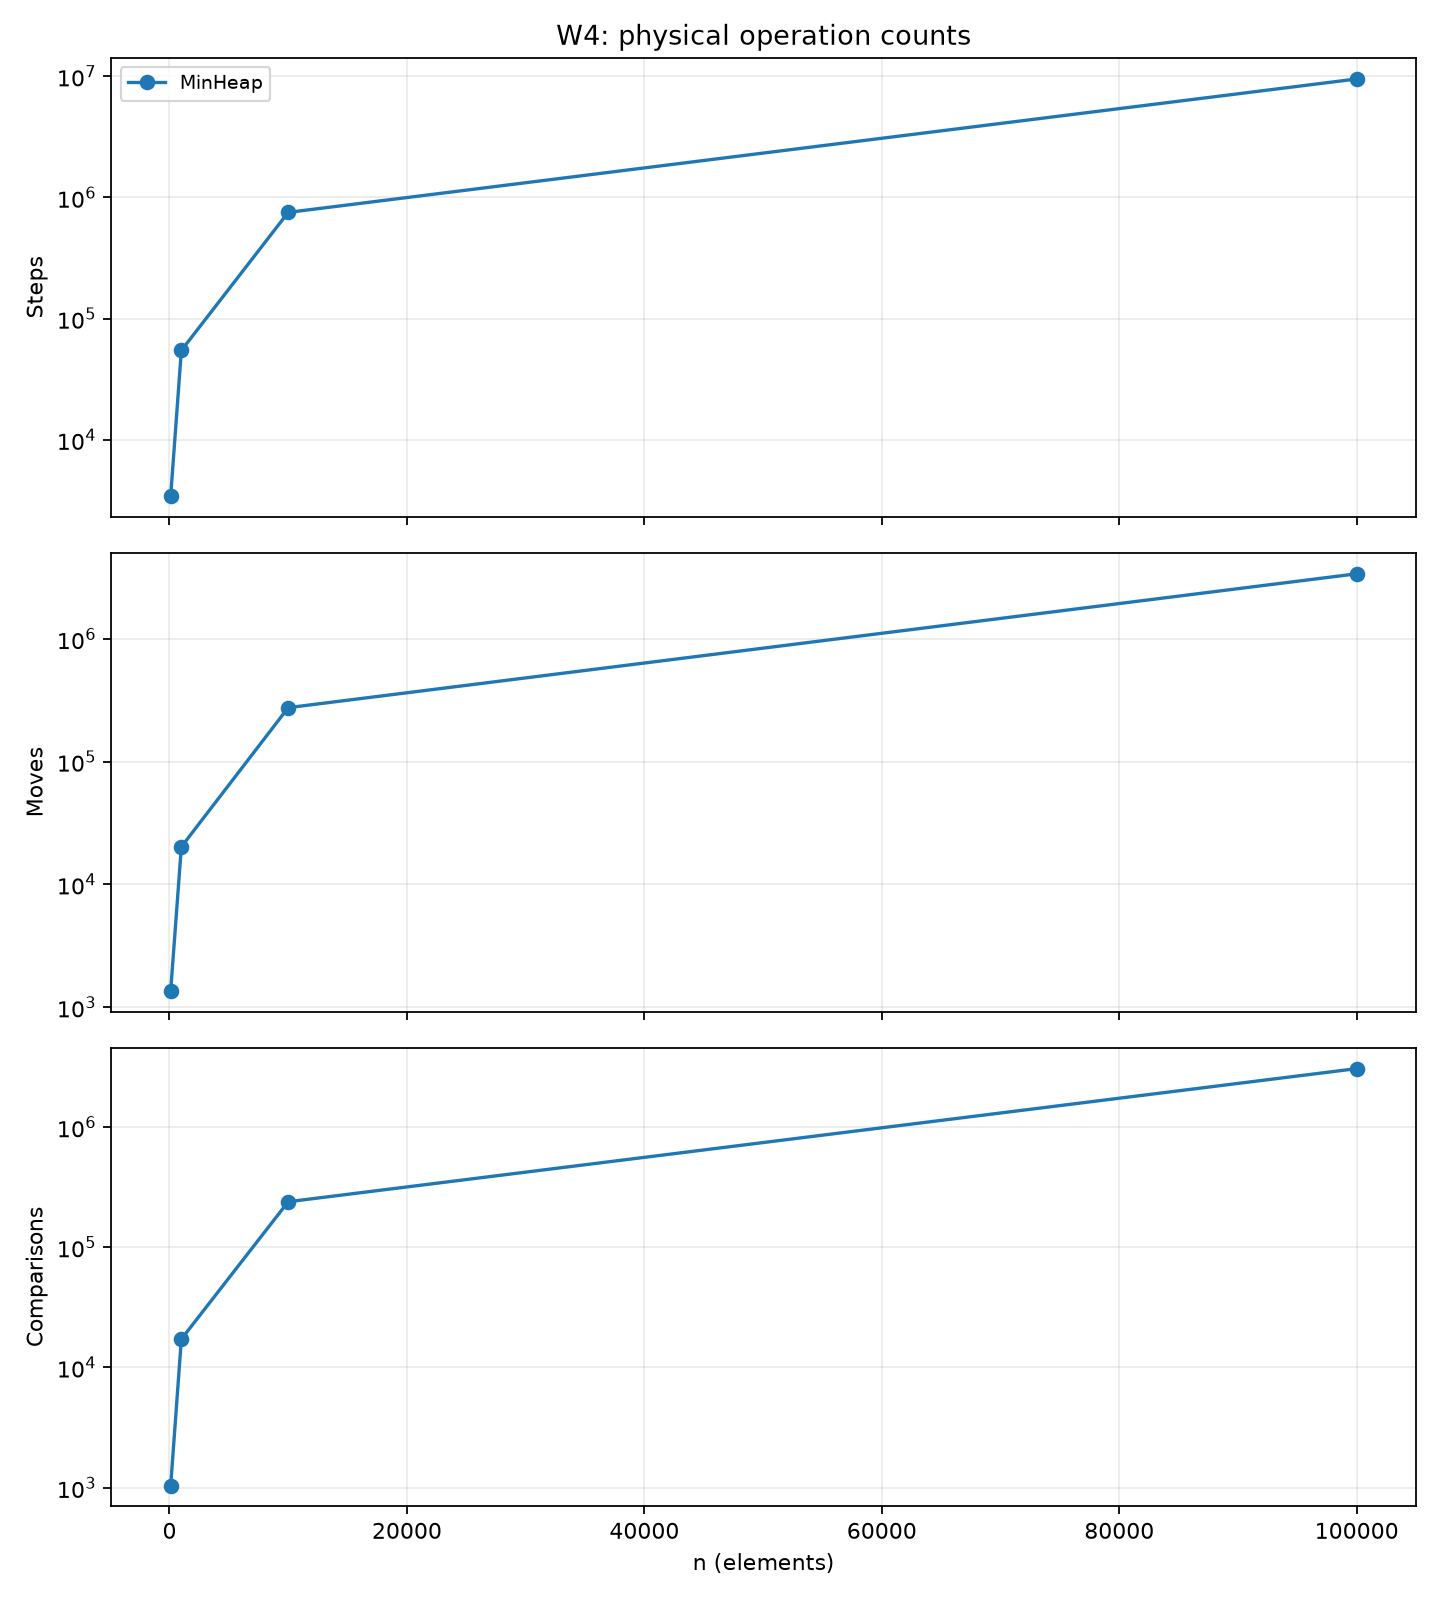
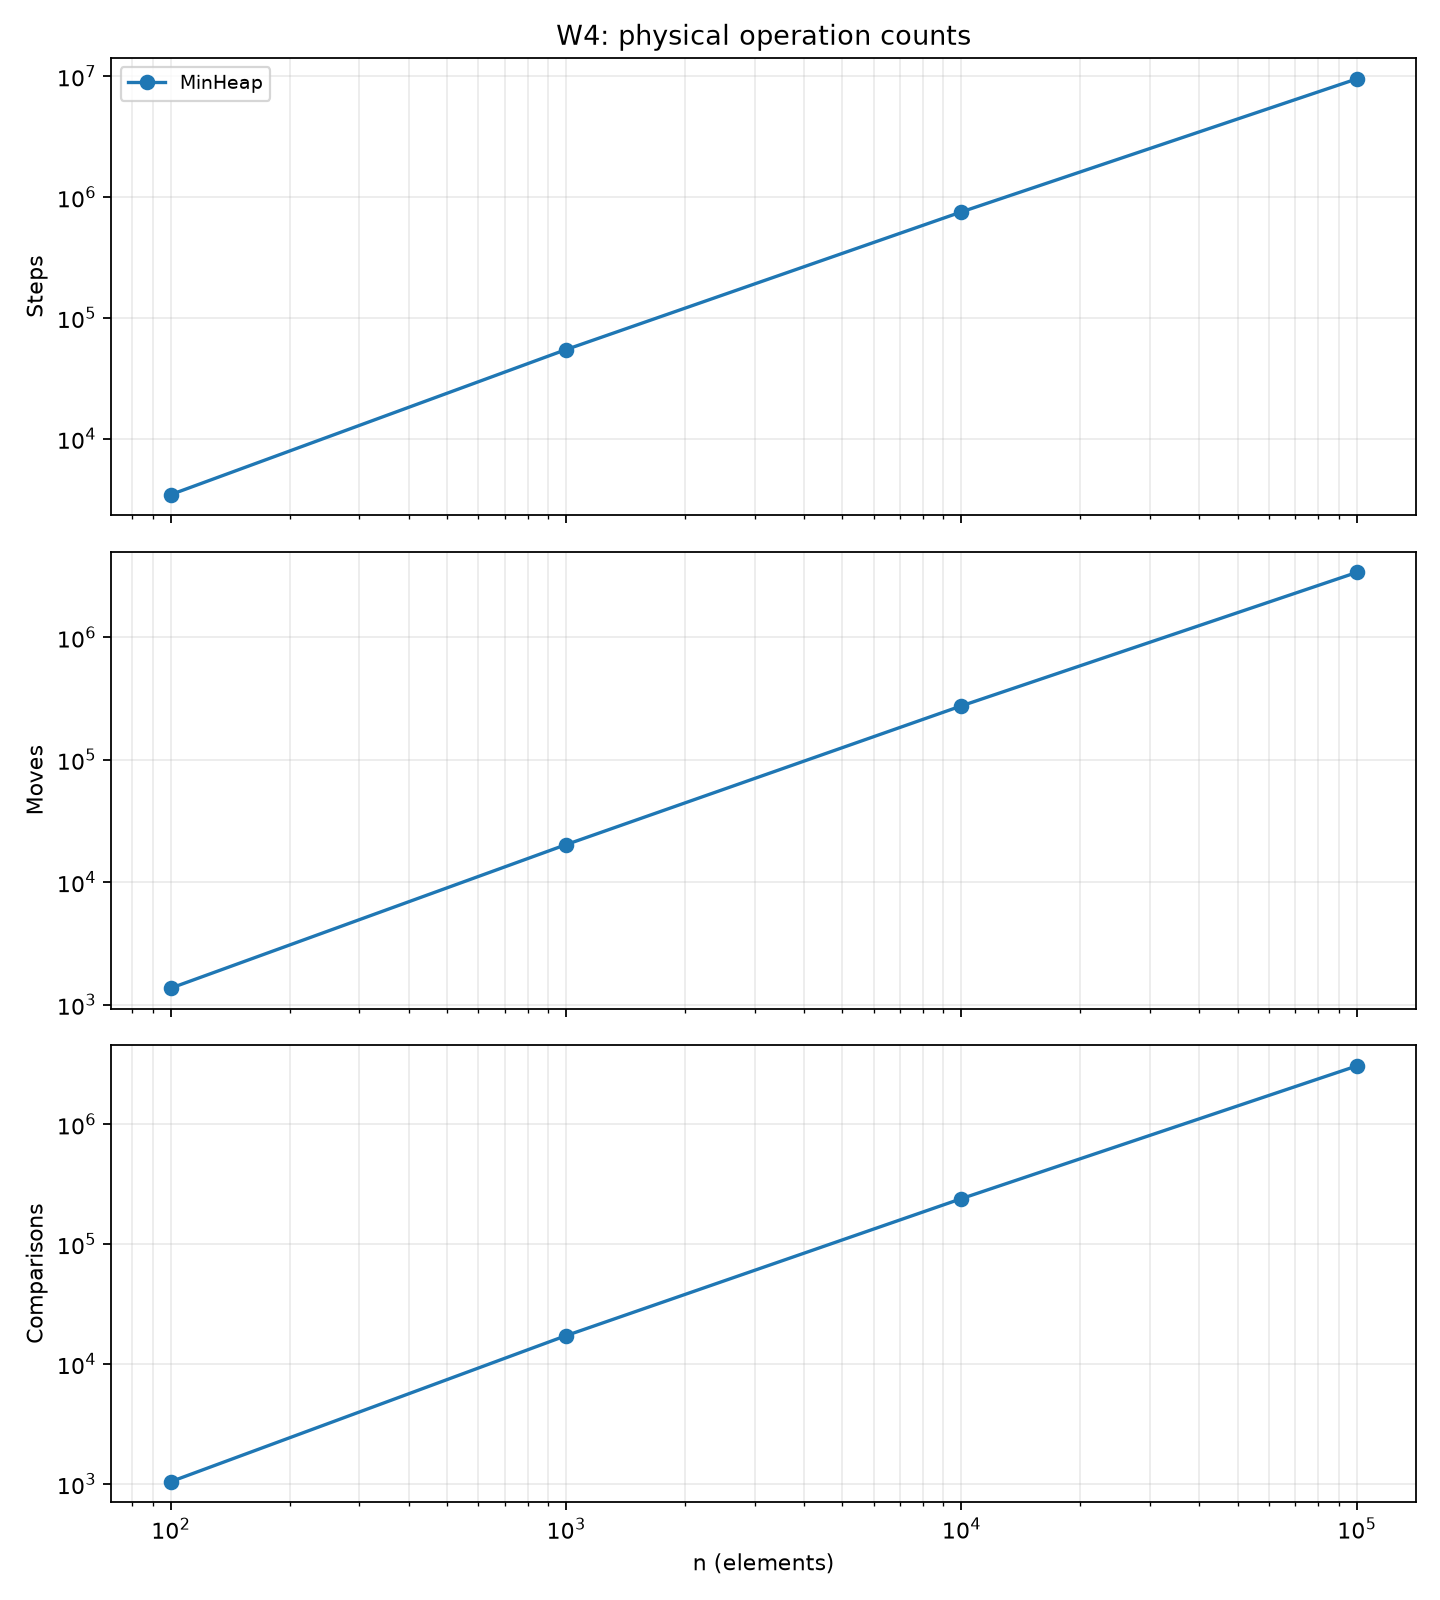
Charts

diff --git a/scripts/plot_results.py b/scripts/plot_results.py
@@ -8,6 +8,7 @@ from pathlib import Path
 import matplotlib
 matplotlib.use("Agg")
 import matplotlib.pyplot as plt
+from matplotlib.ticker import LogFormatterMathtext
 
 
 ROOT = Path(__file__).resolve().parents[1]
@@ -57,12 +58,25 @@ def draw():
 
         fig, axes = plt.subplots(3, 1, figsize=(9, 10), sharex=True)
         for ax, metric in zip(axes, ("steps", "moves", "comparisons")):
+            metric_values = []
             for label, values in grouped.items():
+                metric_values.extend(int(row[metric]) for row in values)
                 ax.plot([int(row["n"]) for row in values],
                         [int(row[metric]) for row in values],
                         marker="o", label=label)
             ax.set_ylabel(metric.capitalize())
-            ax.set_yscale("symlog", linthresh=1)
+            if any(value > 0 for value in metric_values):
+                # Counts span several orders of magnitude; symlog keeps zero
+                # observations visible while labeling positive values as 10^n.
+                ax.set_yscale("symlog", linthresh=1)
+            else:
+                # An all-zero metric is clearer with a single zero baseline.
+                ax.set_ylim(-1, 1)
+                ax.set_yticks([0])
+            ax.set_xscale("log")
+            sizes = sorted({int(row["n"]) for values in grouped.values() for row in values})
+            ax.set_xticks(sizes)
+            ax.xaxis.set_major_formatter(LogFormatterMathtext(base=10))
             ax.grid(True, which="both", alpha=0.25)
         axes[0].set_title(f"{workload}: physical operation counts")
         axes[-1].set_xlabel("n (elements)")

diff --git a/REPORT.md b/REPORT.md
@@ -6,21 +6,31 @@ The project uses `int` values in a dynamic array, a linked list, and a min-heap.
 
 ## Complexity
 
-| Structure / operation | Best | Average | Worst | Extra space | Reason |
+| Structure / operation | Best case | Average case | Worst case | Extra space | Reason |
 |---|---:|---:|---:|---:|---|
-| DynamicArray `add(x)` | Θ(1) | Θ(1)* | Θ(n) | O(n) on resize | A full array is copied; doubling makes most appends cheap. |
-| DynamicArray `add(i,x)` | Θ(1) | Θ(n) | Θ(n) | O(1), plus resize | End insert needs no shift; other inserts shift values. |
-| DynamicArray `remove(i)` | Θ(1) | Θ(n) | Θ(n) | O(1) | Removing the last value needs no shift. |
-| DynamicArray `get(i)` | Θ(1) | Θ(1) | Θ(1) | O(1) | The index reads one array cell. |
-| DynamicArray `contains(x)` | Θ(1) | Θ(n) | Θ(n) | O(1) | The search may check every value. |
-| MyLinkedList `add(x)` | Θ(1) | Θ(1) | Θ(1) | Θ(1) new node | The tail gives direct access to the end. |
-| MyLinkedList `add(i,x)` | Θ(1) | Θ(n) | Θ(n) | Θ(1) new node | Other positions need a walk through the list. |
-| MyLinkedList `remove(i)` | Θ(1) | Θ(n) | Θ(n) | O(1) | The list must find the previous node. |
-| MyLinkedList `get(i)` | Θ(1) | Θ(n) | Θ(n) | O(1) | The list follows links from the head. |
-| MyLinkedList `contains(x)` | Θ(1) | Θ(n) | Θ(n) | O(1) | The search may check every node. |
-| MinHeap `insert(x)` | Θ(1) | Θ(log n) | Θ(n) | O(n) on resize | The value moves up; a full array must be copied. |
-| MinHeap `peekMin()` | Θ(1) | Θ(1) | Θ(1) | O(1) | The minimum is at the root. |
-| MinHeap `extractMin()` | Θ(1) | Θ(log n) | Θ(log n) | O(1) | The last value may move down one tree path. |
+| DynamicArray `add(x)` | Ω(1) | Θ(1), amortized | O(n) | O(n) on resize | A full array is copied; doubling makes most appends cheap. |
+| DynamicArray `add(i,x)` | Ω(1) | Θ(n) | O(n) | O(1), plus resize | End insert needs no shift; other inserts shift values. |
+| DynamicArray `remove(i)` | Ω(1) | Θ(n) | O(n) | O(1) | Removing the last value needs no shift. |
+| DynamicArray `get(i)` | Ω(1) | Θ(1) | O(1) | O(1) | The index reads one array cell. |
+| DynamicArray `contains(x)` | Ω(1) | Θ(n) | O(n) | O(1) | The search may check every value. |
+| MyLinkedList `add(x)` | Ω(1) | Θ(1) | O(1) | O(1) new node | The tail gives direct access to the end. |
+| MyLinkedList `add(i,x)` | Ω(1) | Θ(n) | O(n) | O(1) new node | Other positions need a walk through the list. |
+| MyLinkedList `remove(i)` | Ω(1) | Θ(n) | O(n) | O(1) | The list must find the previous node. |
+| MyLinkedList `get(i)` | Ω(1) | Θ(n) | O(n) | O(1) | The list follows links from the head. |
+| MyLinkedList `contains(x)` | Ω(1) | Θ(n) | O(n) | O(1) | The search may check every node. |
+| MinHeap `insert(x)` | Ω(1) | Θ(log n) | O(n) | O(n) on resize | The value moves up; a full array must be copied. |
+| MinHeap `peekMin()` | Ω(1) | Θ(1) | O(1) | O(1) | The minimum is at the root. |
+| MinHeap `extractMin()` | Ω(1) | Θ(log n) | O(log n) | O(1) | The last value may move down one tree path. |
+
+## Loop invariants
+
+### `DynamicArray.contains(x)`
+
+**Invariant:** All elements before `i` differ from `x`. **Initialization:** True at `i = 0`. **Maintenance:** If `values[i] != x`, incrementing `i` preserves the invariant. **Termination:** At `i == size`, every element was checked. **Correctness:** The method returns `true` when it finds `x`; otherwise, it correctly returns `false`.
+
+### `MinHeap.siftDown(parent)`
+
+**Invariant:** Heap order holds except possibly between `parent` and its children. **Initialization:** After the root is replaced in `extractMin`, only the root may violate heap order. **Maintenance:** Swapping with the smaller child moves the possible violation down one level. **Termination:** The parent has no children or is no greater than its smaller child. **Correctness:** Heap order is restored throughout the tree.
 
 
 | Workload | Time | Operation counts |
